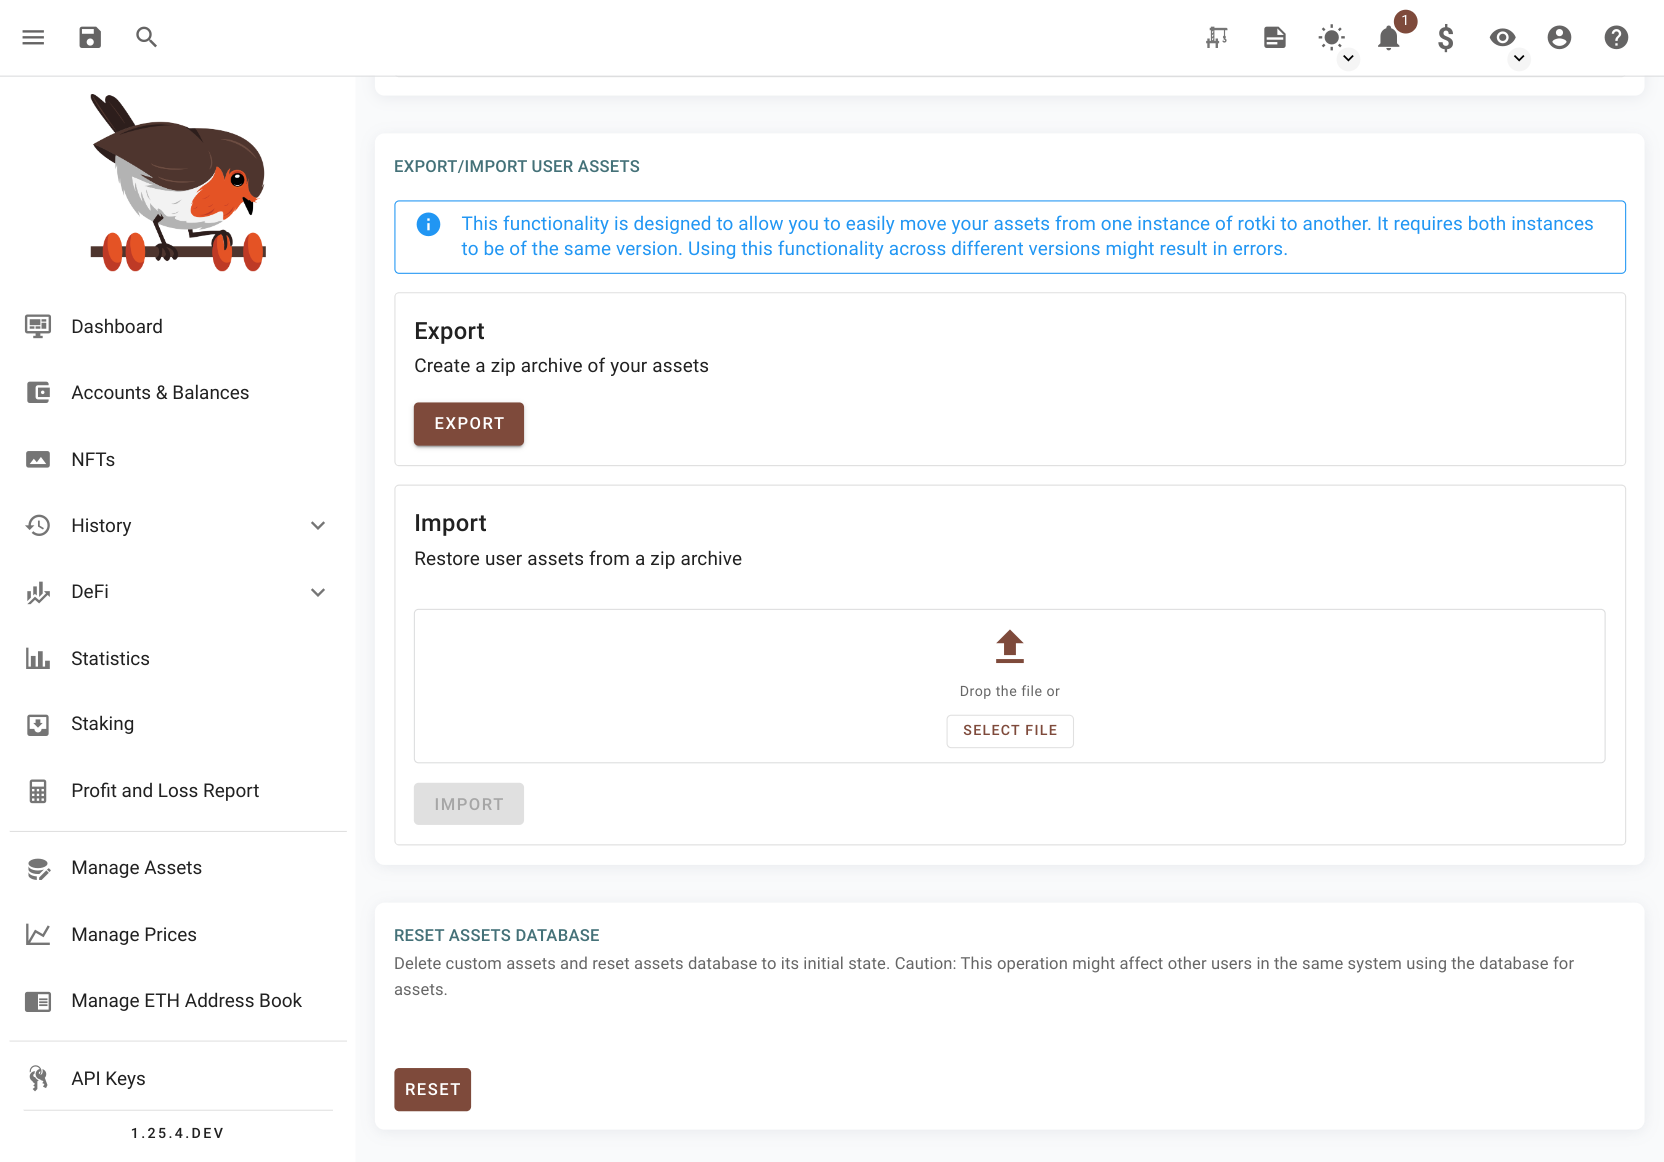
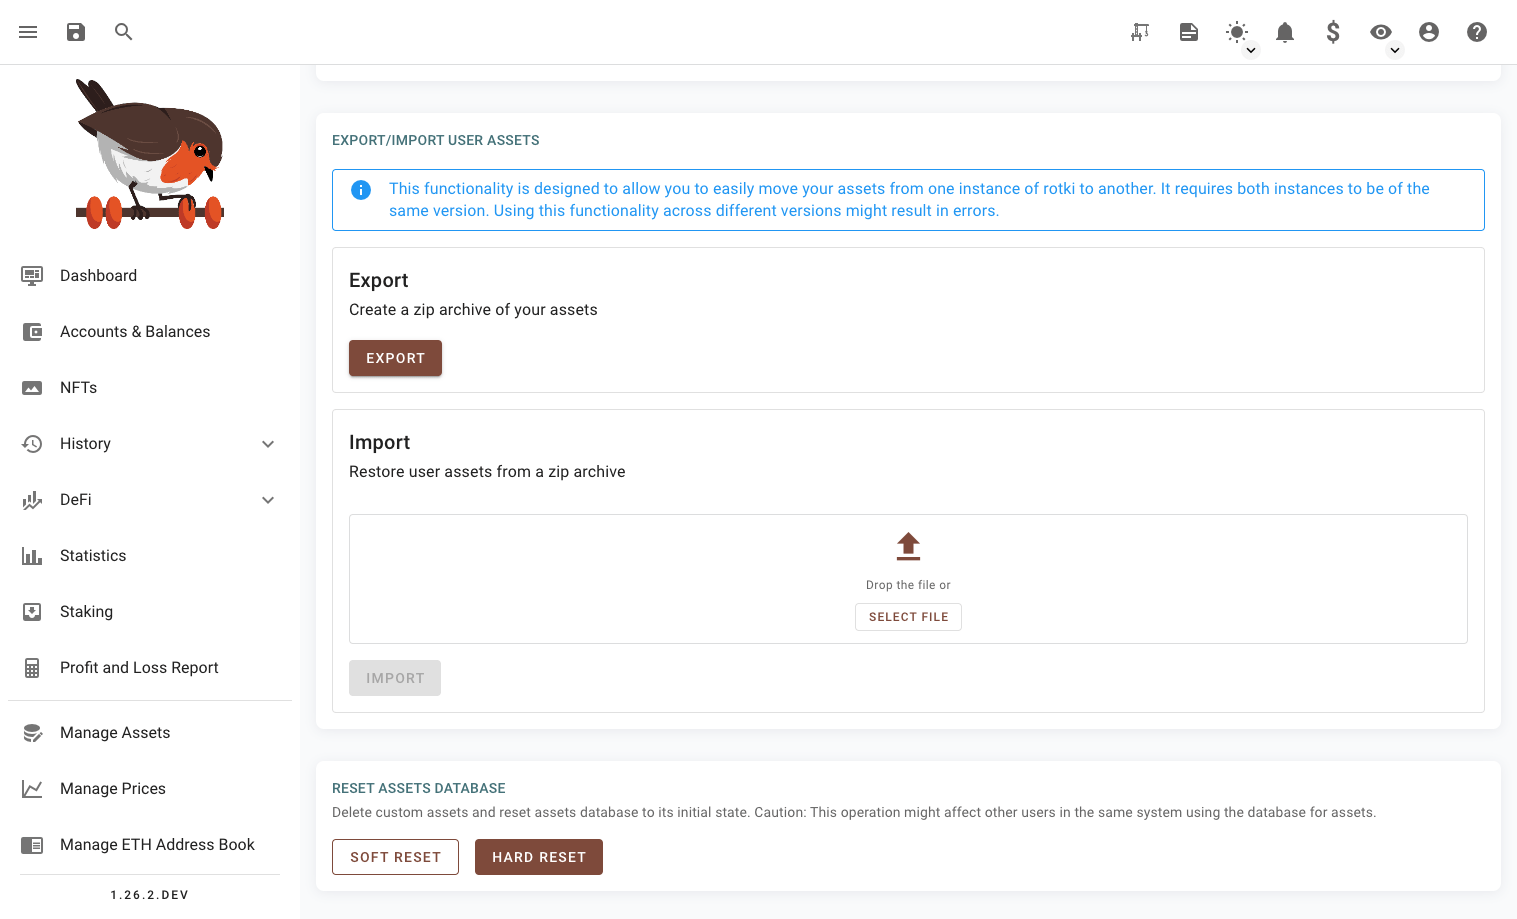
feat: add soft reset for assets in frontend

diff --git a/frontend/app/src/components/asset-manager/RestoreAssetDbButton.vue b/frontend/app/src/components/asset-manager/RestoreAssetDbButton.vue
@@ -1,14 +1,83 @@
 <template>
   <div>
-    <v-btn depressed color="primary" @click="confirmRestore = true">
-      {{ t('asset_update.restore.action') }}
-    </v-btn>
+    <template v-if="dropdown">
+      <v-menu offset-y>
+        <template #activator="{ on }">
+          <v-btn color="primary" depressed v-on="on">
+            {{ t('asset_update.restore.title') }}
+          </v-btn>
+        </template>
+        <v-list>
+          <v-list-item two-line link @click="restoreClick('soft')">
+            <v-list-item-content>
+              <v-list-item-title>
+                {{ t('asset_update.restore.soft_reset') }}
+              </v-list-item-title>
+              <v-list-item-subtitle>
+                {{ t('asset_update.restore.soft_reset_hint') }}
+              </v-list-item-subtitle>
+            </v-list-item-content>
+          </v-list-item>
+          <v-list-item two-line link @click="restoreClick('hard')">
+            <v-list-item-content>
+              <v-list-item-title>
+                {{ t('asset_update.restore.hard_reset') }}
+              </v-list-item-title>
+              <v-list-item-subtitle>
+                {{ t('asset_update.restore.hard_reset_hint') }}
+              </v-list-item-subtitle>
+            </v-list-item-content>
+          </v-list-item>
+        </v-list>
+      </v-menu>
+    </template>
+    <template v-else>
+      <v-tooltip top max-width="200">
+        <template #activator="{ on }">
+          <v-btn
+            outlined
+            depressed
+            color="primary"
+            v-on="on"
+            @click="restoreClick('soft')"
+          >
+            {{ t('asset_update.restore.soft_reset') }}
+          </v-btn>
+        </template>
+        <span>{{ t('asset_update.restore.soft_reset_hint') }}</span>
+      </v-tooltip>
+      <v-tooltip top max-width="200">
+        <template #activator="{ on }">
+          <v-btn
+            class="ml-4"
+            depressed
+            color="primary"
+            v-on="on"
+            @click="restoreClick('hard')"
+          >
+            {{ t('asset_update.restore.hard_reset') }}
+          </v-btn>
+        </template>
+        <span>{{ t('asset_update.restore.hard_reset_hint') }}</span>
+      </v-tooltip>
+    </template>
     <confirm-dialog
       :display="confirmRestore"
       :title="tc('asset_update.restore.delete_confirmation.title')"
-      :message="tc('asset_update.restore.delete_confirmation.message')"
+      :message="
+        resetType === 'soft'
+          ? tc('asset_update.restore.delete_confirmation.soft_reset_message')
+          : tc('asset_update.restore.delete_confirmation.hard_reset_message')
+      "
       @confirm="restoreAssets"
       @cancel="confirmRestore = false"
+    />
+    <confirm-dialog
+      :display="doubleConfirmation"
+      :title="tc('asset_update.restore.hard_restore_confirmation.title')"
+      :message="tc('asset_update.restore.hard_restore_confirmation.message')"
+      @confirm="confirmReset"
+      @cancel="doubleConfirmation = false"
     />
     <confirm-dialog
       v-if="done"
@@ -24,14 +93,26 @@
 
 <script setup lang="ts">
 import { Severity } from '@rotki/common/lib/messages';
+import { Ref } from 'vue';
 import { useBackendManagement } from '@/composables/backend';
 import { api } from '@/services/rotkehlchen-api';
 import { useMainStore } from '@/store/main';
 import { useNotifications } from '@/store/notifications';
 import { useSessionStore } from '@/store/session';
 
+defineProps({
+  dropdown: {
+    required: false,
+    type: Boolean,
+    default: false
+  }
+});
+
 const confirmRestore = ref(false);
+const doubleConfirmation = ref(false);
 const done = ref(false);
+type ResetType = 'soft' | 'hard';
+const resetType: Ref<ResetType> = ref('soft');
 
 const { notify } = useNotifications();
 const { connect, setConnected } = useMainStore();
@@ -41,13 +122,31 @@ const { restartBackend } = useBackendManagement();
 
 const { t, tc } = useI18n();
 
-const restoreAssets = async () => {
+const restoreClick = (type: ResetType) => {
+  set(resetType, type);
+  set(confirmRestore, true);
+};
+
+async function confirmReset() {
+  await restoreAssets();
+}
+
+async function restoreAssets() {
   try {
     set(confirmRestore, false);
-    set(done, await api.assets.restoreAssetsDatabase('hard', false));
+    const updated = await api.assets.restoreAssetsDatabase(
+      get(resetType),
+      get(resetType) === 'hard'
+    );
+    if (updated) {
+      set(done, true);
+    }
   } catch (e: any) {
     const title = t('asset_update.restore.title').toString();
     const message = e.toString();
+    if (message.includes('There are assets that can not')) {
+      set(doubleConfirmation, true);
+    }
     notify({
       title,
       message,
@@ -55,7 +154,7 @@ const restoreAssets = async () => {
       display: true
     });
   }
-};
+}
 
 async function updateComplete() {
   await logout();

diff --git a/frontend/app/src/components/settings/data-security/RestoreAssetsDatabase.vue b/frontend/app/src/components/settings/data-security/RestoreAssetsDatabase.vue
@@ -3,100 +3,13 @@
     <card class="mt-8">
       <template #title>{{ t('asset_update.restore.title') }}</template>
       <template #subtitle>{{ t('asset_update.restore.subtitle') }}</template>
-      <template #buttons>
-        <v-btn
-          depressed
-          color="primary"
-          class="mt-2"
-          @click="confirmRestore = true"
-        >
-          {{ t('asset_update.restore.action') }}
-        </v-btn>
-      </template>
+      <restore-asset-db-button />
     </card>
-    <confirm-dialog
-      :display="confirmRestore"
-      :title="tc('asset_update.restore.hard_restore_message.title')"
-      :message="tc('asset_update.restore.hard_restore_message.message')"
-      @confirm="restoreAssets"
-      @cancel="confirmRestore = false"
-    />
-    <confirm-dialog
-      :display="doubleConfirmation"
-      :title="tc('asset_update.restore.hard_restore_confirmation.title')"
-      :message="tc('asset_update.restore.hard_restore_confirmation.message')"
-      @confirm="confirmHardReset"
-      @cancel="doubleConfirmation = false"
-    />
-    <confirm-dialog
-      v-if="done"
-      single-action
-      display
-      :title="tc('asset_update.restore.success.title')"
-      :primary-action="tc('asset_update.success.ok')"
-      :message="tc('asset_update.restore.success.description')"
-      @confirm="updateComplete()"
-    />
   </fragment>
 </template>
 
 <script setup lang="ts">
-import { Severity } from '@rotki/common/lib/messages';
+import RestoreAssetDbButton from '@/components/asset-manager/RestoreAssetDbButton.vue';
 import Fragment from '@/components/helper/Fragment';
-import { useBackendManagement } from '@/composables/backend';
-import { api } from '@/services/rotkehlchen-api';
-import { useMainStore } from '@/store/main';
-import { useNotifications } from '@/store/notifications';
-import { useSessionStore } from '@/store/session';
-
-const confirmRestore = ref(false);
-const doubleConfirmation = ref(false);
-const restoreHard = ref(false);
-const done = ref(false);
-
-const { notify } = useNotifications();
-const { connect, setConnected } = useMainStore();
-const { logout } = useSessionStore();
-
-const { t, tc } = useI18n();
-
-const { restartBackend } = useBackendManagement();
-
-async function confirmHardReset() {
-  set(restoreHard, true);
-  await restoreAssets();
-}
-
-async function restoreAssets() {
-  try {
-    set(confirmRestore, false);
-    const updated = await api.assets.restoreAssetsDatabase(
-      'hard',
-      get(restoreHard)
-    );
-    if (updated) {
-      set(done, true);
-      set(restoreHard, false);
-    }
-  } catch (e: any) {
-    const title = t('asset_update.restore.title').toString();
-    const message = e.toString();
-    if (message.includes('There are assets that can not')) {
-      set(doubleConfirmation, true);
-    }
-    notify({
-      title,
-      message,
-      severity: Severity.ERROR,
-      display: true
-    });
-  }
-}
-
-async function updateComplete() {
-  await logout();
-  setConnected(false);
-  await restartBackend();
-  await connect();
-}
+const { t } = useI18n();
 </script>

diff --git a/frontend/app/src/services/assets/asset-api.ts b/frontend/app/src/services/assets/asset-api.ts
@@ -325,7 +325,7 @@ export class AssetApi {
   }
 
   restoreAssetsDatabase(
-    reset: String,
+    reset: 'hard' | 'soft',
     ignoreWarnings: boolean
   ): Promise<boolean> {
     return this.axios

diff --git a/frontend/app/src/pages/asset-manager/managed/index.vue b/frontend/app/src/pages/asset-manager/managed/index.vue
@@ -26,7 +26,7 @@
         </v-tooltip>
       </v-col>
       <v-col cols="auto">
-        <restore-asset-db-button />
+        <restore-asset-db-button dropdown />
       </v-col>
     </v-row>
 

diff --git a/docs/usage_guide.rst b/docs/usage_guide.rst
@@ -464,6 +464,14 @@ in a different instance of rotki to easily transfer your user asset entries.
     This archive cannot be used as a backup/restore across different versions of rotki since there is
     absolutely no guarantee that there will be no breaking format changes across versions.
 
+Reset assets database
+-------------------------------------
+
+There is two options to reset assets database:
+
+1. ``Soft Reset`` This option will not reset assets that were added by the user.
+2. ``Hard Reset`` This option will also reset assets that were added by the user.
+
 Purging data
 -----------------
 

diff --git a/docs/changelog.rst b/docs/changelog.rst
@@ -3,6 +3,7 @@ Changelog
 =========
 
 * :release:`1.26.1 <2022-11-04>`
+* :feature:`5114` Add an option to reset the global DB assets that are known by the app to their original state. A so called soft-reset.
 * :feature:`5102` Show stability pool to liquity module.
 * :feature:`5080` For custom assets with custom price there should no longer be any double conversion. So 1 euro should always be one euro.
 * :feature:`5046` Users who deleted important assets from their rotki instance will now have a fallback and won't get their rotki stuck.
